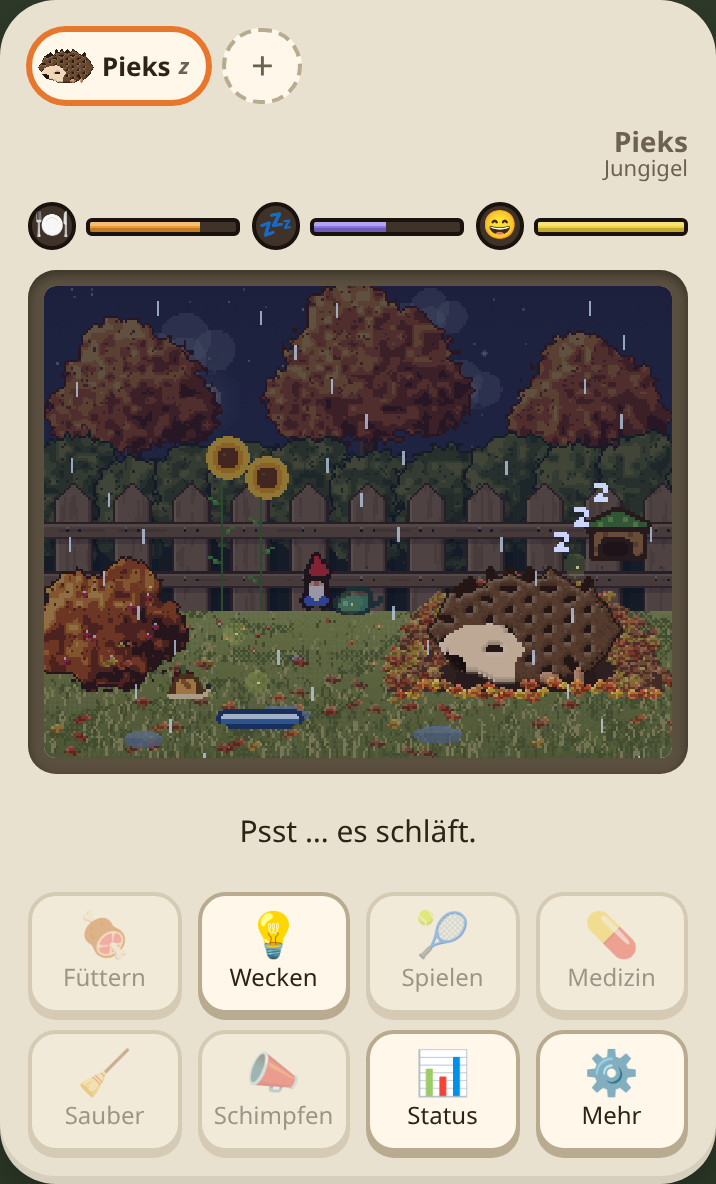
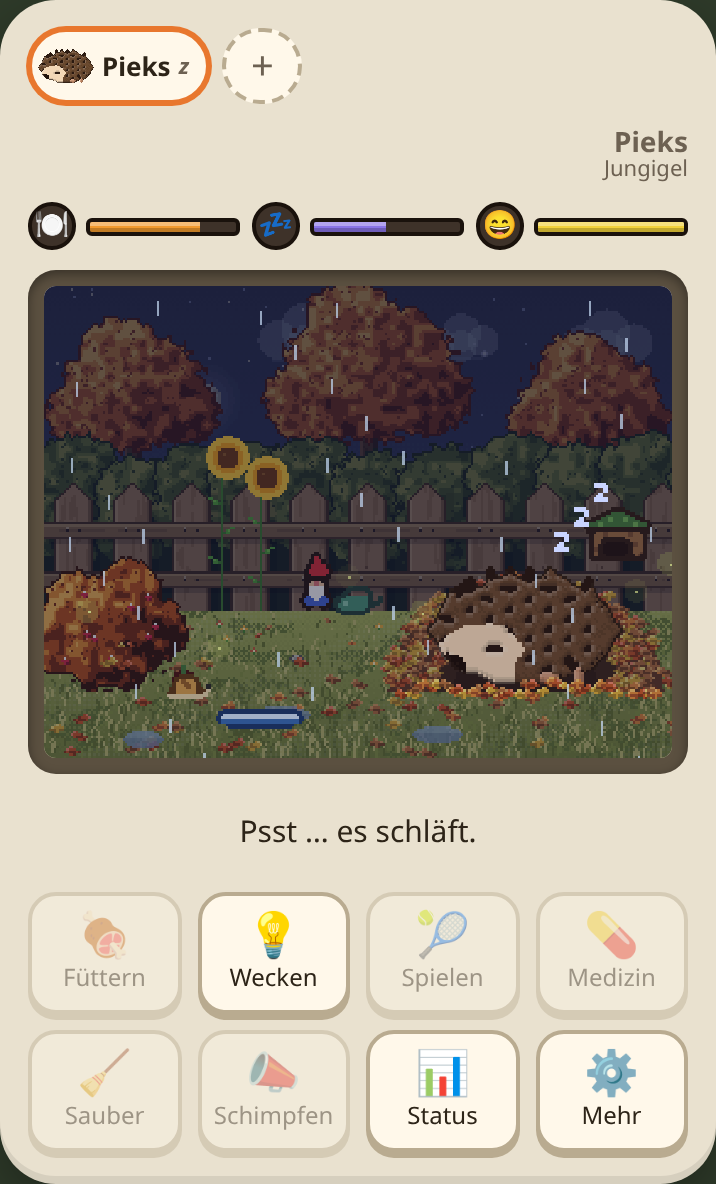
Schönere Tannen im Wald-Hintergrund, Waldstück beim Hühnerhof, Vogel landet auf dem Aststummel

diff --git a/src/render/outdoor.ts b/src/render/outdoor.ts
@@ -98,7 +98,6 @@ export function drawOutdoorSky(ctx: CanvasRenderingContext2D, clock: number): bo
 type Pal5 = [string, string, string, string, string]; // Umriss, Schatten, Mitte, Licht, Glanz
 
 const PINE_NEAR: Pal5 = ['#122a18', '#1c4026', '#2a5a32', '#3a7440', '#56924c'];
-const PINE_FAR: Pal5 = ['#38584a', '#43664f', '#52785c', '#62896a', '#78a07c'];
 
 /** Tanne: gestufte, hängende Astetagen, Licht links, dunkle Unterseiten, Nadelstruktur */
 function pine(p: Painter, cx: number, base: number, h: number, pal: Pal5, seed: number) {
@@ -259,6 +258,73 @@ function ridgeFn(peaks: [number, number, number][], seed: number, rough: number)
     Math.min(...peaks.map(([c, h, k]) => h + Math.abs(x - c) * k)) + (vnoise(x / 4, 1, seed) - 0.5) * rough + (vnoise(x / 12, 2, seed + 1) - 0.5) * rough * 1.6;
 }
 
+const HAZE = '#b4c8d4';
+
+/** kleine Tanne für die Ferne: schmaler Stamm, hängende Astetagen, Lichtseite links; haze 0..1 = Dunst */
+function farPine(p: Painter, cx: number, base: number, h: number, season: Season, haze: number, seed: number) {
+  const pal = (
+    season === 'winter'
+      ? ['#24382c', '#30483a', '#3e5a48', '#52705a', '#eef3f8']
+      : ['#16301e', '#20422a', '#2c5636', '#3e6c44', '#5a8a54']
+  ).map((c) => mix(c, HAZE, haze));
+  const trunkH = Math.max(1, Math.round(h * 0.1));
+  p.rect(cx, base - trunkH, 1, trunkH, mix('#3a2818', HAZE, haze));
+  const top = Math.round(base - h);
+  const bottom = base - trunkH;
+  const tiers = Math.max(2, Math.round(h / 6));
+  p.px(cx, top - 1, pal[1]); // Spitze
+  for (let y = top; y < bottom; y++) {
+    const t = (y - top) / (bottom - top);
+    const tp = (t * tiers) % 1;
+    const env = 0.6 + t * h * 0.27;
+    const half = Math.round(env * (0.42 + 0.58 * tp) + (hash(y, 3, seed) > 0.78 ? 1 : 0));
+    for (let dx = -half; dx <= half; dx++) {
+      const rel = half ? dx / half : 0;
+      const n = hash(cx + dx, y, seed);
+      let c = pal[2];
+      if (rel < -0.15) c = n < 0.6 ? pal[3] : pal[2];
+      if (rel > 0.3) c = n < 0.8 ? pal[1] : pal[2];
+      if (tp > 0.8 || rel > 0.75) c = pal[0]; // Unterseite der Etage, Schattenkante
+      if (season === 'winter') {
+        if (tp < 0.35 && rel < 0.5) c = pal[4]; // Schnee auf den Ästen
+      } else if (rel < -0.55 && n < 0.3 && tp < 0.7) c = pal[4];
+      p.px(cx + dx, y, c);
+    }
+    // hängende Zweigspitzen an der Unterkante jeder Etage
+    if (tp > 0.8 && half > 1) {
+      p.px(cx - half - 1, y + 1, pal[0]);
+      p.px(cx + half + 1, y + 1, pal[0]);
+    }
+  }
+}
+
+/** kleiner Laubbaum für die Ferne (im Winter kahl) */
+function farLeafTree(p: Painter, cx: number, base: number, h: number, season: Season, haze: number, seed: number) {
+  const trunk = mix('#4a3424', HAZE, haze);
+  const crownR = h * 0.36;
+  const cy = base - h + crownR;
+  p.rect(cx, cy, Math.max(1, Math.round(h / 12)), base - cy, trunk);
+  if (season === 'winter') {
+    for (const [a, l] of [[-1.9, h * 0.45], [-1.25, h * 0.4], [-2.4, h * 0.35]] as [number, number][])
+      branch(p, cx, cy + 2, a, l, 1, 2, seed + Math.round(l));
+    return;
+  }
+  const pal = TREE[season].map((c) => mix(c, HAZE, haze)) as Pal5;
+  foliage(p, [[cx, cy, crownR, crownR * 0.9], [cx - crownR * 0.5, cy + crownR * 0.35, crownR * 0.6, crownR * 0.5], [cx + crownR * 0.55, cy + crownR * 0.3, crownR * 0.55, crownR * 0.5]], pal, seed, PH, season === 'spring' ? mix('#fbe0ec', HAZE, haze) : undefined);
+}
+
+/** Waldsaum: dichte Reihe aus Tannen (und Laubbäumen), hinten kleiner, nach Basis sortiert */
+function treeLine(p: Painter, x0: number, x1: number, baseF: (x: number) => number, minH: number, maxH: number, season: Season, haze: number, seed: number, leafy = 0) {
+  const trees: [number, number, number, boolean][] = [];
+  for (let x = x0; x < x1; ) {
+    const h = minH + hash(x, 0, seed) * (maxH - minH);
+    trees.push([x, baseF(x) + Math.round(hash(x, 2, seed) * 3), h, hash(x, 4, seed) < leafy]);
+    x += 3 + Math.floor(hash(x, 1, seed) * 5);
+  }
+  trees.sort((a, b) => a[1] - b[1]);
+  for (const [x, b, h, leaf] of trees) (leaf ? farLeafTree : farPine)(p, x, b, h, season, haze, seed + x);
+}
+
 function forestFar(p: Painter, season: Season) {
   // ferne Bergkette mit Schnee, Felsrippen und Dunst
   const rA = ridgeFn([[18, 40, 0.8], [68, 28, 0.72], [120, 46, 0.84], [172, 30, 0.74], [228, 40, 0.8], [270, 30, 0.7]], 3, 3);
@@ -295,21 +361,11 @@ function forestFar(p: Painter, season: Season) {
       p.px(x, y, mix(c, '#b2c6d2', (Math.floor(hz * 3) / 3) * 0.55));
     }
   }
-  // Waldsaum in zwei Tiefen: viele kleine Tannen-Silhouetten
-  const band = (base: number, minH: number, maxH: number, col: string, lit: string, seed: number) => {
-    for (let x = -4; x < PW + 4; ) {
-      const h = minH + Math.floor(hash(x, 0, seed) * (maxH - minH));
-      for (let r = 0; r <= h; r++) {
-        const half = Math.floor(r * 0.42 + (r % 4 === 3 ? 1 : 0));
-        for (let dx = -half; dx <= half; dx++) p.px(x + dx, base - h + r, dx < 0 && r % 4 !== 3 ? lit : col);
-      }
-      x += 3 + Math.floor(hash(x, 1, seed) * 4);
-    }
-    p.rect(0, base, PW, GY - base, col);
-  };
-  const wf = season === 'winter';
-  band(118, 8, 16, wf ? '#8ea4ae' : '#5c8272', wf ? '#a8bcc4' : '#6c9282', 21);
-  band(124, 9, 19, wf ? '#7a929a' : '#4b6f5e', wf ? '#94aab2' : '#5a7f6c', 22);
+  // Waldsaum in zwei Tiefen: dichte Reihen kleiner Tannen, hinten stärker im Dunst
+  p.rect(0, 116, PW, GY - 116, mix(season === 'winter' ? '#30483a' : '#20422a', HAZE, 0.6));
+  treeLine(p, -4, PW + 4, (x) => 117 + Math.sin(x / 19) * 2, 7, 15, season, 0.62, 21);
+  p.rect(0, 122, PW, GY - 122, mix(season === 'winter' ? '#30483a' : '#20422a', HAZE, 0.42));
+  treeLine(p, -4, PW + 4, (x) => 123 + Math.sin(x / 13 + 2) * 2, 9, 19, season, 0.42, 22);
   // Hügel mit kleinen Tannen
   const hillCols: Record<Season, [string, string, string]> = {
     spring: ['#a6d07e', '#8cbe64', '#c0e098'],
@@ -331,9 +387,9 @@ function forestFar(p: Painter, season: Season) {
   const hc = hillCols[season];
   const h1 = (x: number) => 110 + 5 * Math.sin(x / 34 + 1) + 3 * Math.sin(x / 13);
   hill(h1, [mix(hc[0], '#9ab4c0', 0.25), mix(hc[1], '#9ab4c0', 0.25), hc[2]], 31);
-  for (const [x, h] of [[78, 18], [90, 14], [150, 20], [162, 15], [230, 17]] as [number, number][]) pine(p, x, h1(x) + 3, h, PINE_FAR, x);
+  for (const [x, h] of [[74, 15], [80, 20], [88, 13], [148, 22], [156, 16], [163, 12], [226, 18], [233, 13]] as [number, number][]) farPine(p, x, Math.round(h1(x)) + 3, h, season, 0.25, x);
   hill((x) => 120 + 4 * Math.sin(x / 22 + 2) + 2 * Math.sin(x / 9), hc, 33);
-  for (const [x, h] of [[116, 34], [134, 26]] as [number, number][]) pine(p, x, 125, h, PINE_FAR, x + 7);
+  for (const [x, h] of [[112, 26], [120, 36], [131, 28], [139, 19]] as [number, number][]) farPine(p, x, 127, h, season, 0.08, x + 7);
 }
 
 const BUSH: Record<Season, Pal5> = {
@@ -564,10 +620,13 @@ function farmFar(p: Painter, season: Season) {
   p.rect(bx + 6, by + 9, 6, 7, '#5a1e16');
   p.line(bx + 6, by + 9, bx + 11, by + 15, '#e8dcc8');
   p.line(bx + 11, by + 9, bx + 6, by + 15, '#e8dcc8');
-  for (const [tx, ty, tr] of [[52, 76, 7], [62, 78, 5], [188, 74, 8], [200, 77, 5], [150, 90, 6]] as [number, number, number][]) {
-    p.rect(tx, ty + tr - 2, 2, 6, '#4a3424');
-    foliage(p, [[tx + 1, ty, tr, tr * 0.85]], season === 'winter' ? HEDGE.winter : TREE[season], tx, PH);
-  }
+  // Waldstück am Horizont rechts, Baumgruppe links, einzelne Bäume zwischen den Feldern
+  const ridge = (x: number) => Math.round(top(x)) + 2;
+  treeLine(p, 140, PW + 6, ridge, 12, 24, season, 0.42, 81, 0.35);
+  treeLine(p, 150, PW + 6, (x) => ridge(x) + 4, 14, 28, season, 0.3, 82, 0.4);
+  treeLine(p, -6, 64, ridge, 10, 20, season, 0.42, 83, 0.6);
+  for (const [x, y, h, leaf] of [[78, 96, 16, true], [86, 97, 11, false], [184, 98, 18, true], [132, 92, 12, true]] as [number, number, number, boolean][])
+    (leaf ? farLeafTree : farPine)(p, x, y, h, season, 0.18, x);
   // Koppelzaun aus Pfosten und zwei leicht durchhängenden Querbalken
   const wood = (x: number, y: number) => (hash(x, y, 2) > 0.8 ? '#7a6448' : '#9a8262');
   for (const ry of [106, 120]) {

diff --git a/src/render/critters.ts b/src/render/critters.ts
@@ -12,8 +12,8 @@ const FLOOR_Y = 40;
 const GROUND_Y = 33;
 const PX = 1 / RES;
 
-type Kind = 'mouse' | 'hedgehog' | 'deer' | 'bird' | 'fly';
-export type CritterLayer = 'sky' | 'window' | 'background' | 'foreground';
+type Kind = 'mouse' | 'hedgehog' | 'deer' | 'bird' | 'fly' | 'perch';
+export type CritterLayer = 'sky' | 'window' | 'background' | 'near' | 'foreground';
 
 const MOUSE_BODY = [
   '..........oo....',
@@ -98,16 +98,29 @@ export const SPRITES: Record<Kind, { frames: string[][]; colors: ColorMap }> = {
     ],
     colors: { o: '#3a2a20', b: '#8a6040', w: '#c8a070', e: '#111111', y: '#f0a020' },
   },
+  // Vogel, der auf dem Aststummel landet: Flug-Frames wie oben, dazu Sitzen und Picken/Umschauen
+  perch: {
+    frames: [
+      ['o.......o..', 'wo.....ow..', '.wo...ow...', '..obbbbbo..', '..obbbbeyy.', '...ooooo...'],
+      ['...........', '...........', '..obbbbbo..', '.wobbbbeyy.', 'wo.ooooo...', 'o..........'],
+      ['...........', '....obbo...', '...obbbeyy.', '..wwbbbbo..', '.wwwbbbo...', '....o.o....'],
+      ['...........', '...........', '....obbbo..', '..wwbbbbeyy', '.wwwbbbbo..', '....o.o....'],
+    ],
+    colors: { o: '#3a2a20', b: '#8a6040', w: '#c8a070', e: '#111111', y: '#f0a020' },
+  },
 };
 
 const KINDS: Record<SceneKind, Kind[]> = {
   room: ['bird'],
-  forest: ['mouse', 'hedgehog', 'deer', 'bird', 'bird'],
+  forest: ['mouse', 'hedgehog', 'deer', 'bird', 'perch'],
   garden: ['mouse', 'bird', 'bird'],
   farm: ['mouse', 'bird', 'bird'],
 };
 
-const DURATION: Record<Kind, number> = { mouse: 3000, hedgehog: 14000, deer: 20000, bird: 5000, fly: 9000 };
+const DURATION: Record<Kind, number> = { mouse: 3000, hedgehog: 14000, deer: 20000, bird: 5000, fly: 9000, perch: 0 };
+// Aststummel am Baum des Fuchses: Landeplatz (Mitte x, Oberkante y in Spiel-Einheiten)
+const PERCH = { x: 38.5, y: 11.5 };
+const PERCH_FLY = 1800; // An- bzw. Abflug in ms
 
 // Blätter: zwei Frames (Drehung), Farben je Umgebung
 export const LEAF_FRAMES = [
@@ -139,6 +152,7 @@ interface Active {
   start: number;
   dir: 1 | -1;
   y: number;
+  sit?: number; // Vogel auf dem Ast: Sitzdauer in ms
 }
 
 interface Leaf {
@@ -169,7 +183,7 @@ export class Critters {
 
   /** zum Testen: ein bestimmtes Tier auf einer bestimmten Bodenlinie vorbeischicken */
   debugSpawn(kind: Kind, lane: number, dir: 1 | -1 = 1) {
-    this.active = { env: this.env, kind, start: performance.now(), dir, y: lane };
+    this.active = { env: this.env, kind, start: performance.now(), dir, y: lane, sit: kind === 'perch' ? 6000 : undefined };
   }
 
   /** Bodenlinie des Tiers, das gerade am Boden vorbeiläuft (für die Tiefensortierung), sonst null */
@@ -230,9 +244,10 @@ export class Critters {
         kind,
         start: t,
         dir: Math.random() < 0.5 ? 1 : -1,
+        sit: kind === 'perch' ? 5000 + Math.random() * 15000 : undefined,
         // Vögel: Flughöhe; Maus und Igel: eigene Bodenlinie (Tiefe), damit sie mal vor, mal hinter dem Haustier laufen
         y:
-          kind === 'bird'
+          kind === 'bird' || kind === 'perch'
             ? env === 'room' && win ? win.y + 2 + Math.random() * (win.h - 6) : 4 + Math.random() * 10
             : kind === 'mouse' || kind === 'hedgehog'
               ? FLOOR_Y + 1.5 + Math.random() * 5
@@ -241,7 +256,7 @@ export class Critters {
     }
     const a = this.active;
     const inRoom = a.env === 'room' && !!win && a.kind !== 'fly';
-    const dur = inRoom ? 2600 : DURATION[a.kind];
+    const dur = inRoom ? 2600 : a.kind === 'perch' ? PERCH_FLY * 2 + (a.sit ?? 8000) : DURATION[a.kind];
     const k = (t - a.start) / dur;
     if (k >= 1) {
       this.active = null;
@@ -254,6 +269,7 @@ export class Critters {
     const [x0, span] = inRoom ? [win!.x, win!.w] : [0, W];
     const across = (p: number) => x0 + (a.dir > 0 ? -w + p * (span + w * 2) : span + w - p * (span + w * 2));
     let frame = 0;
+    let flipNow = false;
     let x = 0;
     let y = 0;
     switch (a.kind) {
@@ -280,6 +296,33 @@ export class Critters {
         y = a.y - hPx * PX;
         frame = Math.floor(t / 220) % 2;
         break;
+      case 'perch': {
+        // anfliegen, eine Weile auf dem Ast sitzen (umschauen, picken), weiterfliegen
+        const el = t - a.start;
+        const sit = a.sit ?? 8000;
+        const sx = PERCH.x - w / 2;
+        const sy = PERCH.y - hPx * PX;
+        const from = a.dir > 0 ? -w - 2 : W + 2;
+        if (el < PERCH_FLY) {
+          const q = el / PERCH_FLY;
+          const e = 1 - (1 - q) * (1 - q); // abbremsen zur Landung
+          x = from + (sx - from) * e;
+          y = a.y + (sy - a.y) * e - Math.sin(q * Math.PI) * 3;
+          frame = q > 0.85 ? 2 : Math.floor(t / 110) % 2;
+        } else if (el < PERCH_FLY + sit) {
+          x = sx;
+          y = sy;
+          const s = Math.floor((el - PERCH_FLY) / 700);
+          frame = (s * 7) % 5 === 0 ? 3 : 2; // ab und zu picken
+          if (Math.floor((el - PERCH_FLY) / 2300) % 2 === 1) flipNow = true; // umschauen
+        } else {
+          const q = (el - PERCH_FLY - sit) / PERCH_FLY;
+          x = sx + (a.dir > 0 ? 1 : -1) * q * q * (W * 0.8);
+          y = sy - q * 14;
+          frame = Math.floor(t / 100) % 2;
+        }
+        break;
+      }
       case 'bird':
         x = across(k);
         y = a.y + Math.sin(k * 12) * 1.2;
@@ -294,8 +337,8 @@ export class Critters {
         break;
       }
     }
-    const rows = a.dir < 0 ? flipRows(sp.frames[frame]) : sp.frames[frame];
-    const layer: CritterLayer = inRoom ? 'window' : a.kind === 'bird' ? 'sky' : a.kind === 'deer' ? 'background' : 'foreground';
+    const rows = (a.dir < 0) !== flipNow ? flipRows(sp.frames[frame]) : sp.frames[frame];
+    const layer: CritterLayer = inRoom ? 'window' : a.kind === 'bird' ? 'sky' : a.kind === 'perch' ? 'near' : a.kind === 'deer' ? 'background' : 'foreground';
     this.flyY = y;
     this.frame = { layer, rows, colors: sp.colors, x, y, ground: y + hPx * PX, clip: inRoom ? win : undefined };
     const cx = x + w / 2;

diff --git a/src/render/scene.ts b/src/render/scene.ts
@@ -343,6 +343,7 @@ export class Scene {
       ctx.drawImage(this.bg, 0, 0, SCREEN_W, SCREEN_H); // Wiese, Bäume, Busch, Schlafplatz
       if (weatherAt(s.clock).precip === 'rain') drawPuddles(ctx, t);
       this.critters.draw(ctx, 'air', t); // wehende Blätter
+      this.critters.draw(ctx, 'near', t); // Vogel auf dem Aststummel (vor dem Baumstamm)
       nightTint(ctx, night * 0.26); // Nahes etwas weniger dunkel
       if (season !== 'winter') this.ambient.draw(ctx, this.env, skyState(s.clock), t, WIN); // Schmetterlinge / Glühwürmchen
     }

diff --git a/SPEC.md b/SPEC.md
@@ -240,9 +240,9 @@ Mehrere Parameter lassen sich kombinieren. Bei einem Ei wirkt nur `hatch=1`.
 - **Tiere und Objekte** werden in vierfacher Dichte gezeichnet: Rundungen und Schrägen sind geglättet, der Umriss ist nur **1 Pixel** dünn und in einer abgedunkelten Tönung der angrenzenden Farbe (oben links etwas heller). Licht oben links und Schatten unten rechts sind zweistufig, Fell und Gefieder haben eine feine Strich-Struktur, die Augen einen Glanzpunkt.
 - **Hintergründe sind von Grund auf neu und direkt im 256 × 192-Raster gemalt** (nicht hochskaliert). Verläufe haben sichtbare Farbstufen mit geordnetem Dithering an den Übergängen; Laub, Wiesen und Felsen entstehen aus Rauschen, Licht fällt von oben links. Jede Szene passt sich der **Jahreszeit** an (Laubfarben, Blüten, Schnee, kahle Bäume).
   - **Himmel:** Farbverlauf je Tageszeit, Sterne (helle mit kleinem Kreuz), Sonne mit Lichthof und hellem Rand bzw. Mond mit Kratern.
-  - **Wald (Fuchs):** zwei Bergketten hintereinander (hinten mit Schneegipfeln, Felsrippen und Dunst, davor bewaldet), zwei Bänder aus kleinen Tannen-Silhouetten, zwei Hügel mit Tannen, Wiese mit einzelnen Halmen und Blümchen, große Tannen mit hängenden Astetagen und Nadelstruktur, Beerenbusch, Kieselsteine, ausgetretene Erde vor dem Bau. Der Baumstamm hat Borkenplatten, Querrisse, Moos, zwei Astknoten und einen Aststummel mit Jahresring-Schnittfläche. Die Höhle hat eine helle Lippe oben, ein Inneres mit Tiefe und Laub. Davor kriechen Wurzeln über den Boden.
+  - **Wald (Fuchs):** zwei Bergketten hintereinander (hinten mit Schneegipfeln, Felsrippen und Dunst, davor bewaldet), zwei dichte Reihen kleiner Tannen im Dunst (hinten blasser), zwei Hügel mit Tannengruppen. Die Tannen in der Ferne haben schmale Stämme, **hängende Astetagen** mit dunkler Unterseite und herabhängenden Zweigspitzen, eine Lichtseite links mit hellen Nadelspitzen und im Winter Schnee auf den Ästen; Wiese mit einzelnen Halmen und Blümchen, große Tannen mit hängenden Astetagen und Nadelstruktur, Beerenbusch, Kieselsteine, ausgetretene Erde vor dem Bau. Der Baumstamm hat Borkenplatten, Querrisse, Moos, zwei Astknoten und einen Aststummel mit Jahresring-Schnittfläche. Die Höhle hat eine helle Lippe oben, ein Inneres mit Tiefe und Laub. Davor kriechen Wurzeln über den Boden.
   - **Garten (Igel):** drei Laubbäume (im Winter kahl mit verzweigten Ästen, im Frühling mit Blüten), Hecke aus runden Sträuchern, Lattenzaun mit Spitzen, Maserung, Astlöchern, zwei Querriegeln und Nägeln, Rasen mit Mähstreifen, Tulpen, Beerenbusch und Laub auf der Wiese (hinten klein, vorne groß). Das Laubnest besteht aus Hunderten einzelner Blätter mit Mulde.
-  - **Hühnerhof (Huhn):** ferne Felder als Flickenteppich mit Saatreihen und Hecken, eine kleine rote Scheune und Bäumchen, davor ein Koppelzaun mit leicht durchhängenden Balken. Der Boden ist Erde mit Hunderten Strohhalmen. Der Stall hat Bretterwände mit Nägeln, Eckpfosten, ein Ziegeldach mit Lichtkante und First, eine weiße Traufe, eine Tür mit heller Einfassung und ein warm leuchtendes Fenster.
+  - **Hühnerhof (Huhn):** ferne Felder als Flickenteppich mit Saatreihen und Hecken, eine kleine rote Scheune, ein **Waldstück** am Horizont rechts (Tannen und Laubbäume in zwei Reihen), eine Baumgruppe links und einzelne Bäume zwischen den Feldern, davor ein Koppelzaun mit leicht durchhängenden Balken. Der Boden ist Erde mit Hunderten Strohhalmen. Der Stall hat Bretterwände mit Nägeln, Eckpfosten, ein Ziegeldach mit Lichtkante und First, eine weiße Traufe, eine Tür mit heller Einfassung und ein warm leuchtendes Fenster.
   - **Zimmer (Katze, Hund):** Streifentapete mit Ornamenten, Stuhlleiste, **Wandvertäfelung** mit Füllungen, Fußleiste, Dielenboden aus einzelnen Brettern (Fugen, Lichtkante, Maserung, Astlöcher). Das Fenster hat einen profilierten Rahmen, einen **Ausblick** auf Hügel und Bäume (je nach Jahreszeit und Tageszeit) und ein Fensterbrett. Daneben hängen **Vorhänge** mit Falten und goldenem Raffhalter an einer Stange (Katze rot, Hund blau).
 - Kleine Pixel-Grafiken (Deko) werden beim Zeichnen auf die volle Dichte verfeinert; Regen, Schneeflocken, Sterne, Glühwürmchen und Fäden sind 1 Pixel fein.
 - Die Tiere bewegen sich in halben Schritten.
@@ -291,7 +291,7 @@ Mehrere Parameter lassen sich kombinieren. Bei einem Ei wirkt nur `hatch=1`.
   4. ferne Landschaft (Berge, Waldsaum, Hügel bzw. Bäume, Hecke und Zaun bzw. Felder und Koppelzaun)
   5. Reh
   6. nahe Landschaft (Wiese, große Tannen, Busch, Baum bzw. Laubhaufen)
-  7. wehende Blätter
+  7. wehende Blätter, Vogel auf dem Aststummel
   8. Haustier
   9. Maus und Igel am Boden: **nach Tiefe sortiert**. Jedes vorbeilaufende Tier bekommt eine zufällige Bodenlinie. Liegt sie hinter dem Haustier, läuft es hinter ihm vorbei, sonst davor; genauso vor oder hinter dem Napf. Flache Deko (Feder, Apfel, Tränke, Schnecke) liegt hinter der Laufzone, damit nichts falsch überdeckt wird.
   10. Napf (Maus/Igel davor oder dahinter, je nach Bodenlinie)
@@ -322,7 +322,7 @@ Mehrere Parameter lassen sich kombinieren. Bei einem Ei wirkt nur `hatch=1`.
 - Sie ziehen **hinter** Bäumen, Hecke und Fensterkreuz vorbei. Nachts sind sie nur blass zu sehen.
 
 **Tiere im Hintergrund:** Ab und zu (etwa alle 15–50 Sekunden, nur tagsüber) ist etwas los:
-- **Fuchs (Wald):** Eine Maus huscht vorbei, ein Igel läuft vorbei, ein **Reh** läuft klein im Hintergrund vorbei und **grast** zwischendurch, oder ein **Vogel** fliegt vorbei.
+- **Fuchs (Wald):** Eine Maus huscht vorbei, ein Igel läuft vorbei, ein **Reh** läuft klein im Hintergrund vorbei und **grast** zwischendurch, oder ein **Vogel** fliegt vorbei. Ab und zu **landet ein Vogel auf dem Aststummel** des Baumstamms: Er fliegt an, bremst zur Landung ab, sitzt eine **zufällige Zeit (5–20 s)**, schaut sich dabei um und pickt, und fliegt dann weiter.
 - **Igel (Garten):** eine Maus oder ein Vogel.
 - **Katze und Hund (Zimmer):** Ein Vogel fliegt **am Fenster** vorbei.
 - Die kleinen Tiere sind im feinen Pixelraster mit mehr Details gezeichnet:
